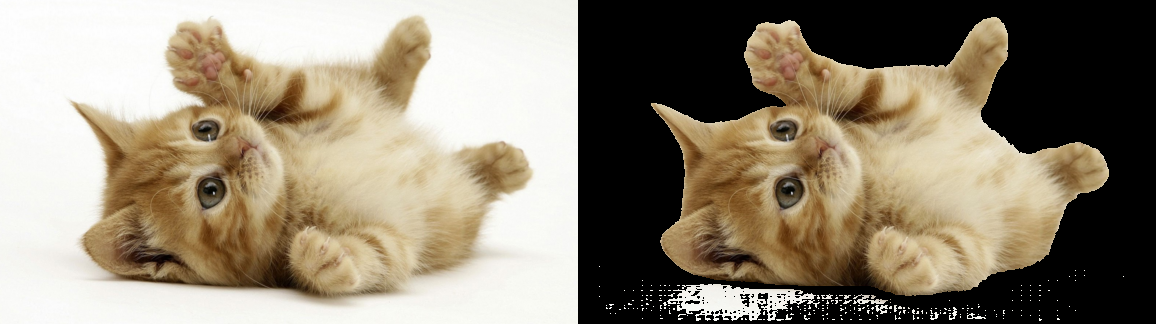
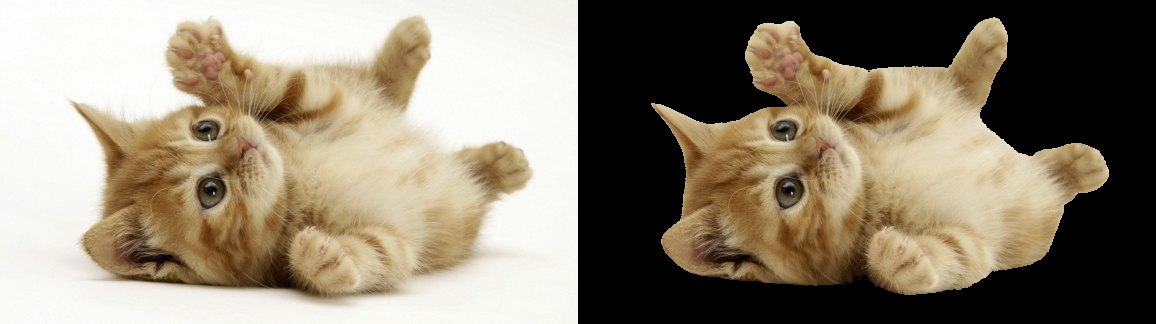
Fix points and bounding boxes

diff --git a/tutorials/01-remove-background/main.py b/tutorials/01-remove-background/main.py
@@ -2,6 +2,7 @@ import os
 import numpy as np
 from PIL import Image
 from common import remove_background_points, remove_background_box
+import matplotlib.pyplot as plt
 
 def find_input_image(filename='input.png'):
     current_dir = os.path.dirname(os.path.abspath(__file__))
@@ -13,6 +14,25 @@ def find_input_image(filename='input.png'):
     if os.path.exists(image_path):
         return image_path
     raise FileNotFoundError(f"Could not find {filename} in the tutorial root or current directory.")
+
+def plot_points_on_image(image, points, labels):
+    plt.figure(figsize=(10, 10))
+    plt.imshow(image)
+    for point, label in zip(points, labels):
+        color = 'r' if label == 0 else 'g'
+        plt.plot(point[0], point[1], f'{color}o', markersize=10)
+    plt.title("Input Image with Marked Points")
+    plt.axis('off')
+    return plt.gcf()
+
+def plot_box_on_image(image, x1, y1, x2, y2):
+    plt.figure(figsize=(10, 10))
+    plt.imshow(image)
+    plt.gca().add_patch(plt.Rectangle((x1, y1), x2 - x1, y2 - y1, 
+                        fill=False, edgecolor='r', linewidth=2))
+    plt.title("Input Image with Bounding Box")
+    plt.axis('off')
+    return plt.gcf()
 
 def main():
     try:
@@ -26,23 +46,36 @@ def main():
         # Smart point selection: 4 inside, 4 outside
         points = [
             [200, 150],  # Inside kitten's body
-            [350, 200],  # Inside kitten's head
+            [350, 75],  # Inside kitten's head
             [450, 250],  # Inside kitten's paw
-            [150, 300],  # Inside kitten's back paw
+            [150, 220],  # Inside kitten's back paw
             [50, 50],    # Outside top-left
             [550, 50],   # Outside top-right
-            [550, 350],  # Outside bottom-right
-            [50, 350]    # Outside bottom-left
+            [550, 300],  # Outside bottom-right
+            [50, 300]    # Outside bottom-left
         ]
         labels = [1, 1, 1, 1, 0, 0, 0, 0]  # 1 for foreground (kitten), 0 for background
+        
+        # Create and save the points visualization
+        points_fig = plot_points_on_image(image, points, labels)
+        points_fig.savefig(os.path.join(tutorial_folder, "input_image_with_points.png"))
+        plt.close(points_fig)
+        print("Points visualization saved as 'input_image_with_points.png' in the tutorial folder.")
         
         processed_image_points, comparison_points = remove_background_points(image, points, labels)
         processed_image_points.save(os.path.join(tutorial_folder, "processed_image_points.png"))
         comparison_points.save(os.path.join(tutorial_folder, "comparison_points.png"))
         print("Point-based processing complete. Check 'processed_image_points.png' and 'comparison_points.png' in the tutorial folder.")
         
-        # Box-based segmentation (unchanged)
-        x1, y1, x2, y2 = 50, 20, 580, 350
+        # Box-based segmentation
+        x1, y1, x2, y2 = 50, 20, 550, 300  # Adjusted to fit better within the image
+        
+        # Create and save the box visualization
+        box_fig = plot_box_on_image(image, x1, y1, x2, y2)
+        box_fig.savefig(os.path.join(tutorial_folder, "input_image_with_box.png"))
+        plt.close(box_fig)
+        print("Box visualization saved as 'input_image_with_box.png' in the tutorial folder.")
+        
         processed_image_box, comparison_box = remove_background_box(image, x1, y1, x2, y2)
         processed_image_box.save(os.path.join(tutorial_folder, "processed_image_box.png"))
         comparison_box.save(os.path.join(tutorial_folder, "comparison_box.png"))
